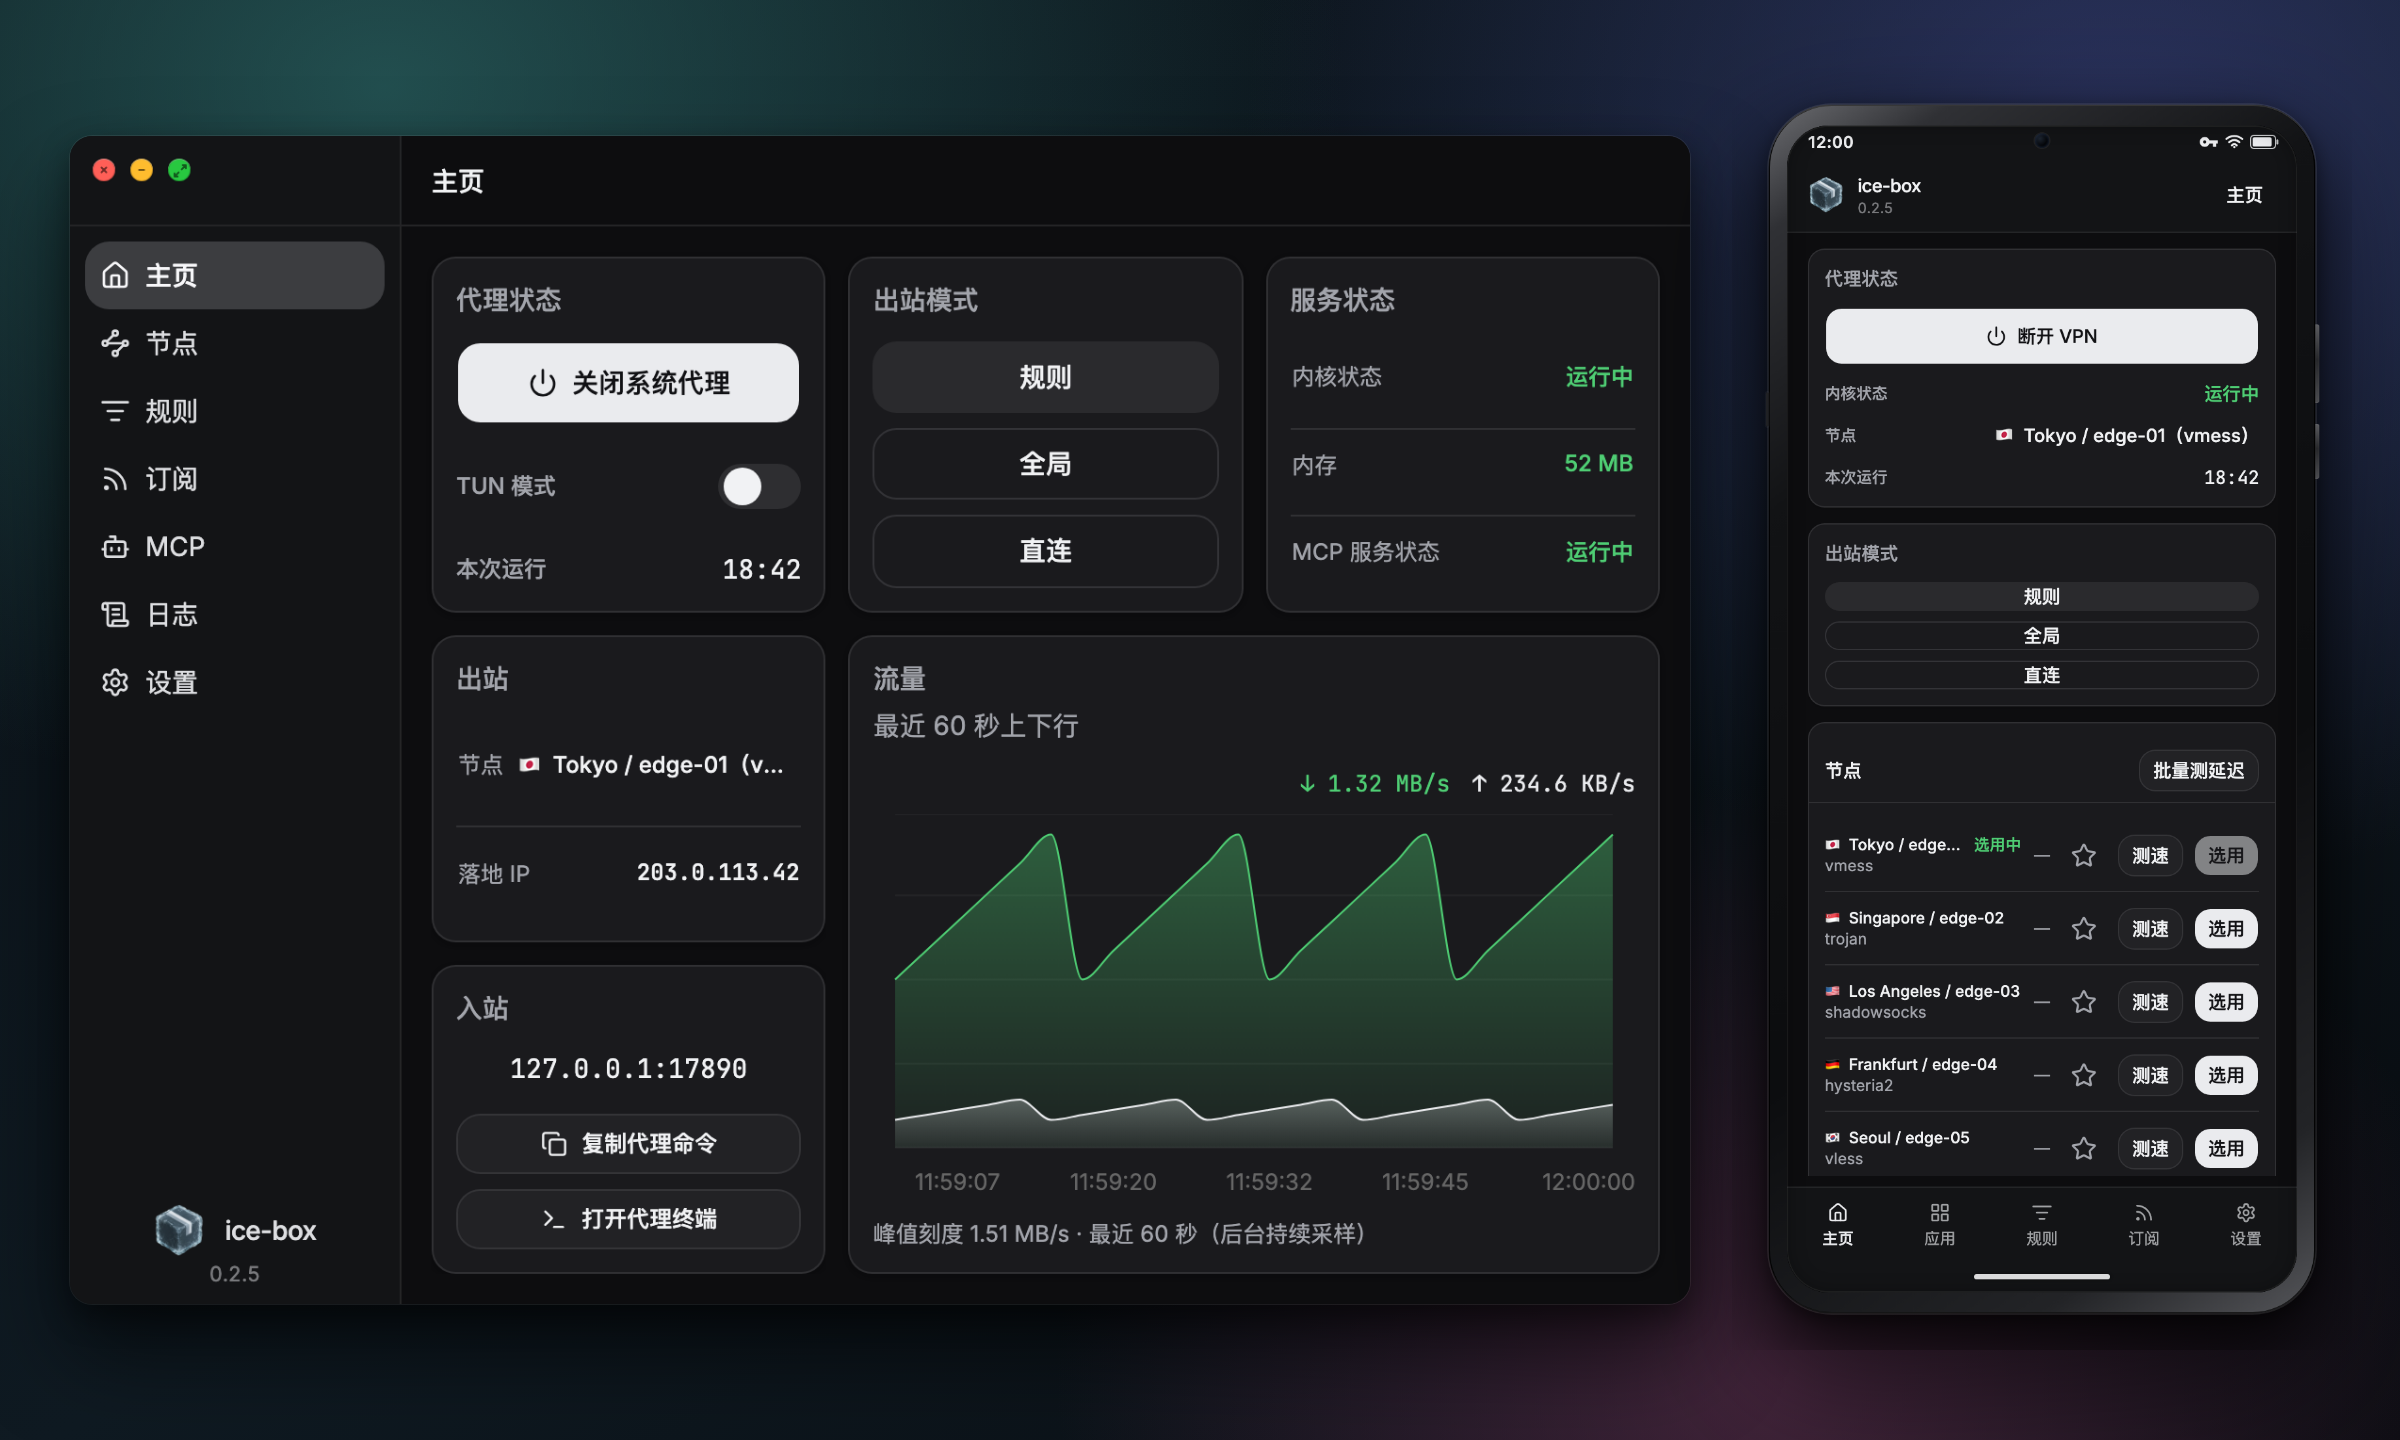
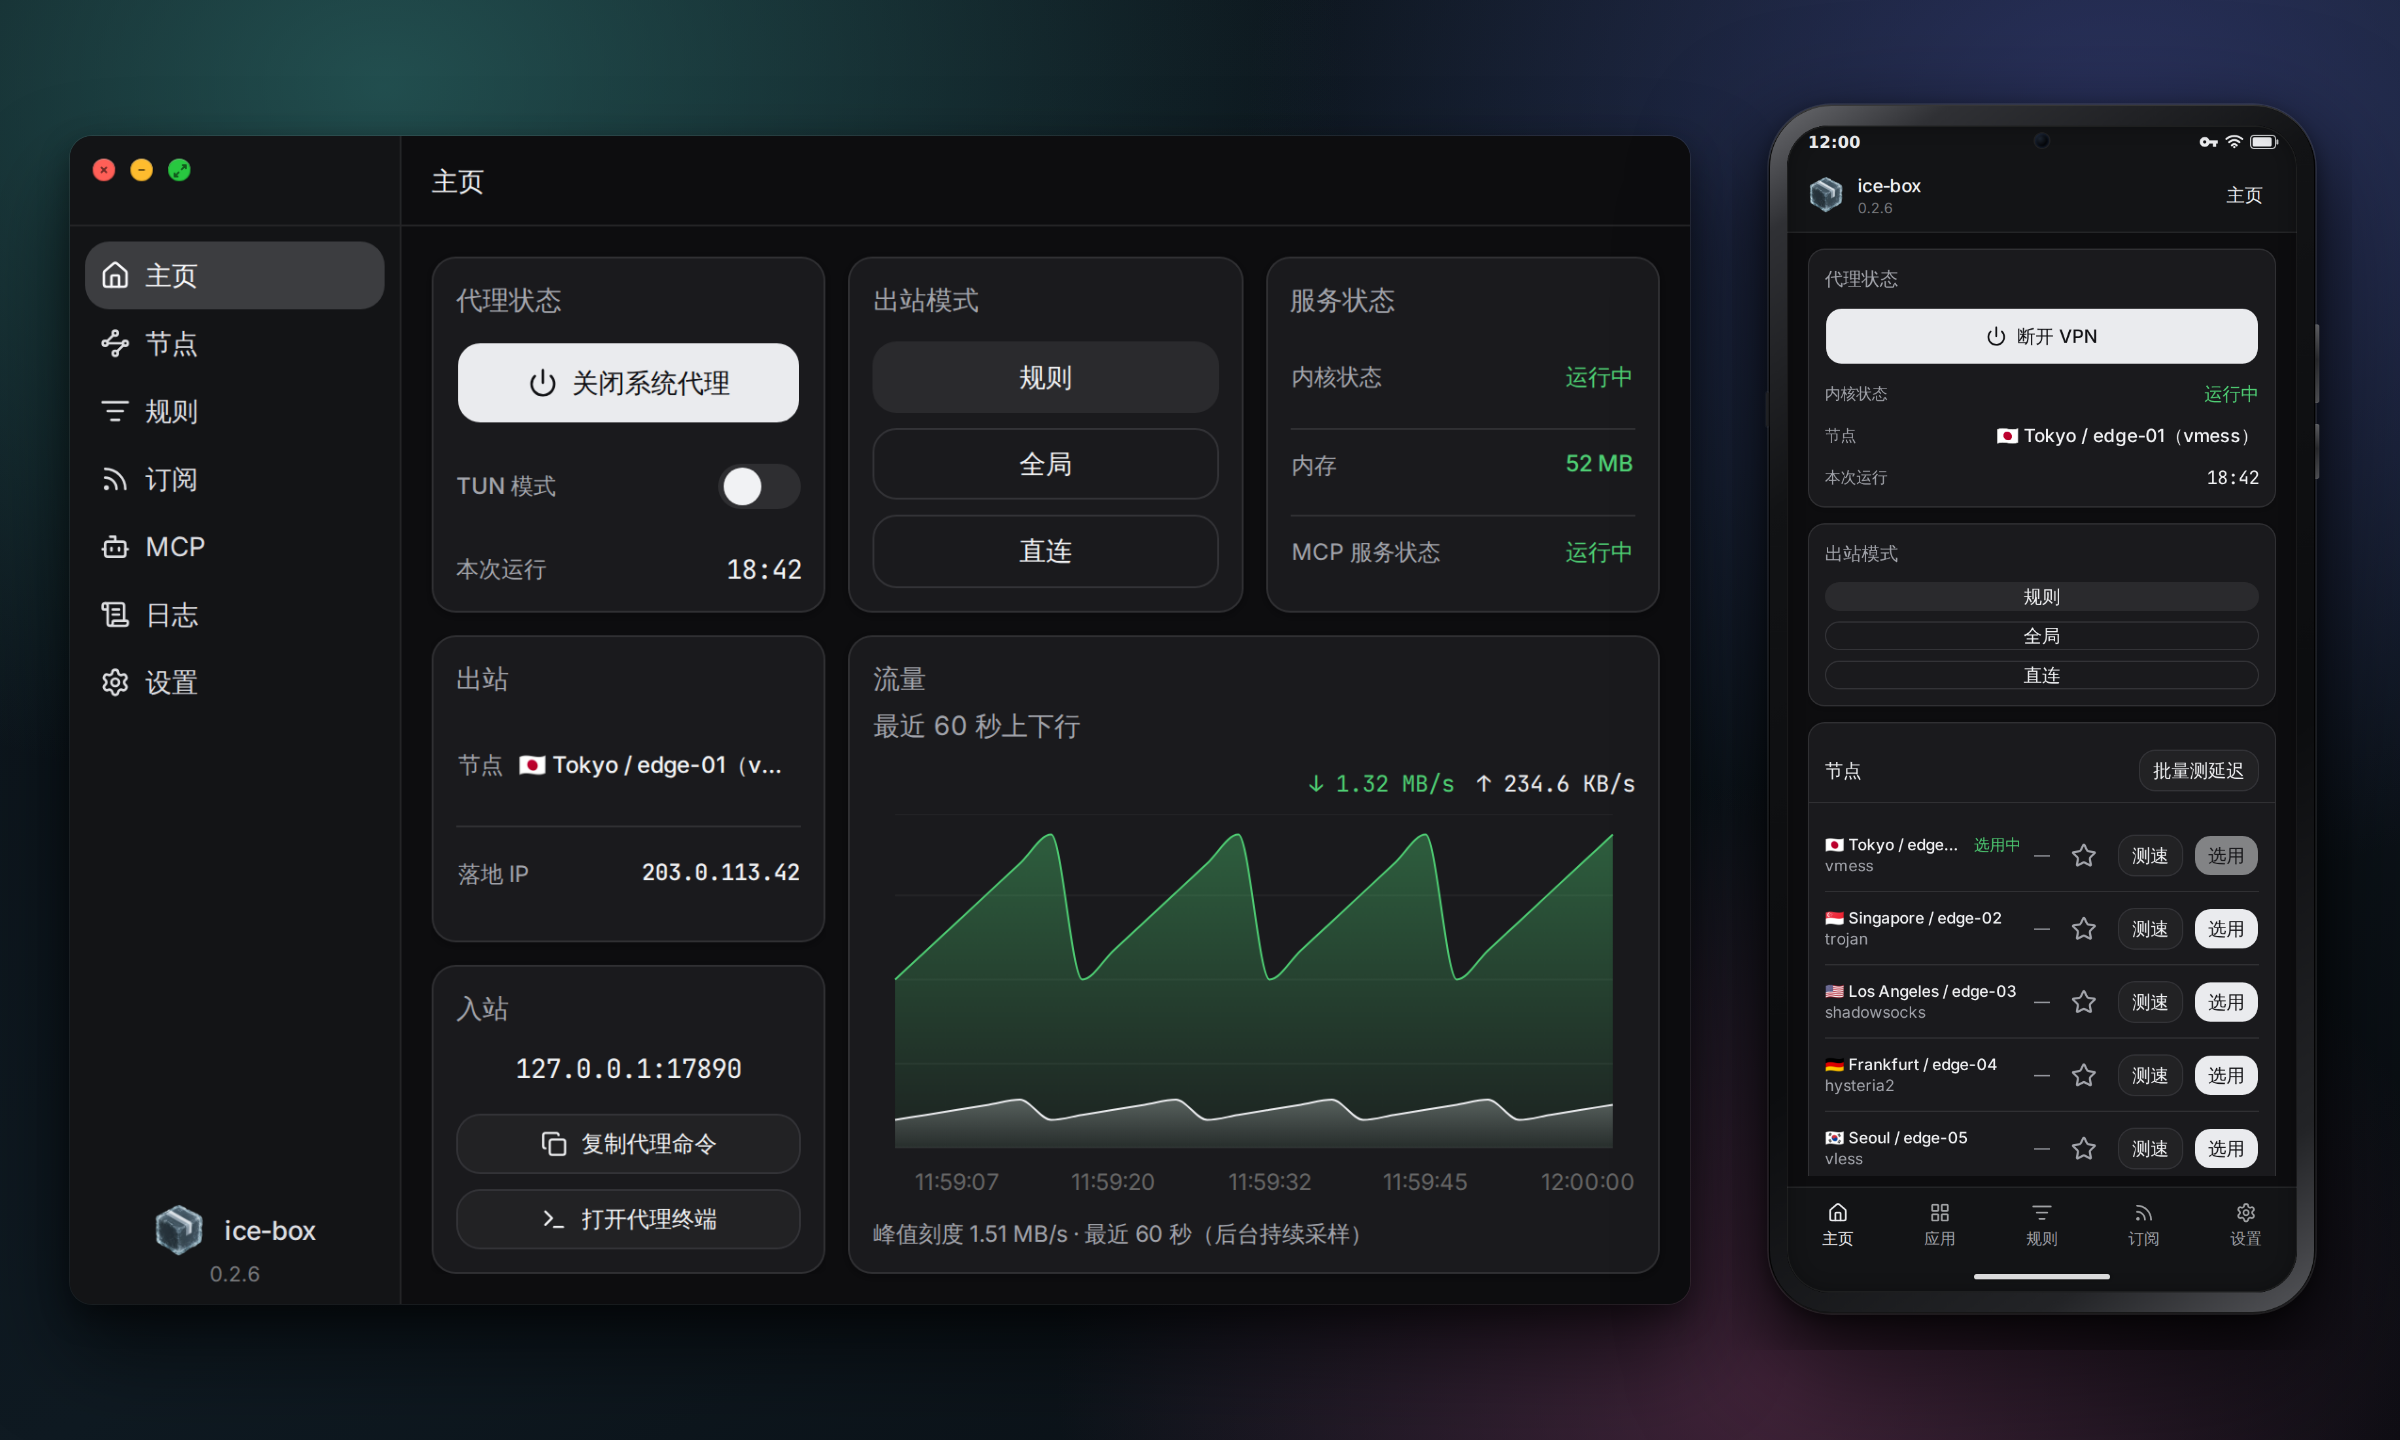
release: v0.2.6

diff --git a/CHANGELOG.md b/CHANGELOG.md
@@ -3,7 +3,7 @@
 All notable changes to this project are documented in this file.
 The format is based on [Keep a Changelog](https://keepachangelog.com/en/1.1.0/).
 
-## [Unreleased]
+## [0.2.6] - 2026-11-02
 
 ### Changed
 
